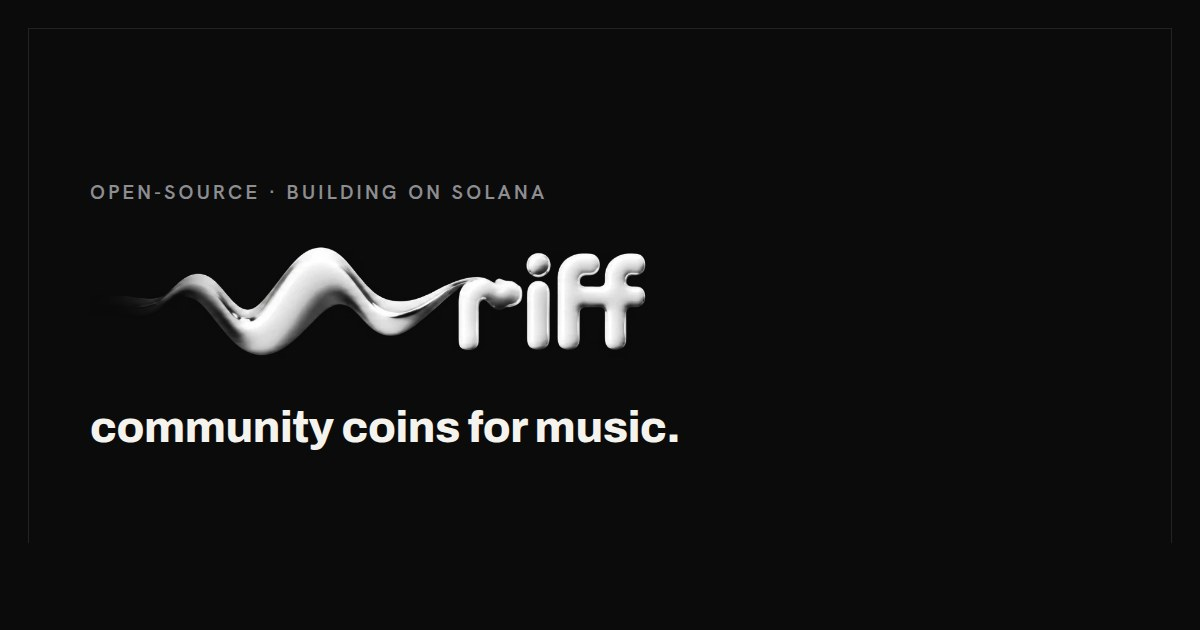
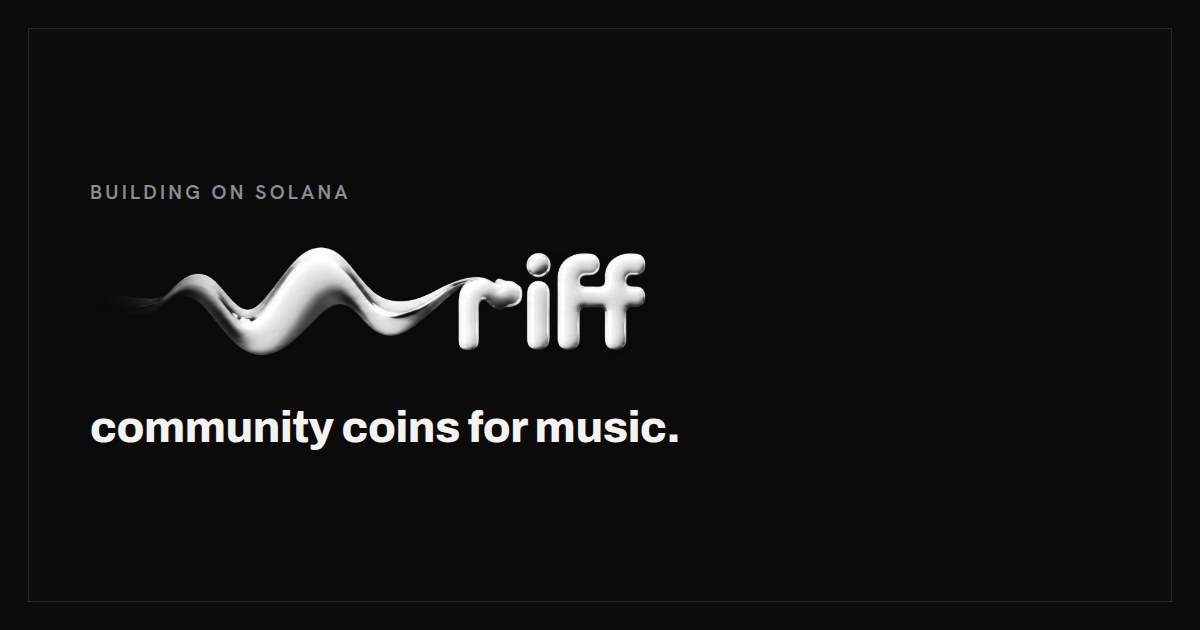
Remove open-source claims and fill in real links
Riff's code will not be open source, so the site no longer says it is:
the hero, meta tags, principles list, footer and social card drop the
open-source wording, and the "built in public" section with its repo
tree becomes a plain "follow the build" updates section. The MIT
LICENSE is replaced with an all-rights-reserved notice so the public
repo does not grant reuse of the site or brand assets.

Placeholder URLs now point to use-riff.github.io, github.com/use-riff
and x.com/useRiffPad; JSON-LD switches to an Organization record.

Claude-Session: https://claude.ai/code/session_01RsVUPfgxExVhs85XeAz9xS

Changed region(s): [[0.0617, 0.2714, 0.4625, 0.3317]]

diff --git a/index.html b/index.html
@@ -4,10 +4,10 @@
 <meta charset="utf-8">
 <script>document.documentElement.className='js';</script>
 <title>riff — community coins for music</title>
-<meta name="description" content="Riff is an open-source launch protocol exploring fairer community coins, artist fee sharing and music-charity fallback.">
+<meta name="description" content="Riff is a launch protocol exploring fairer community coins, artist fee sharing and music-charity fallback.">
 <meta name="viewport" content="width=device-width, initial-scale=1">
 <meta name="theme-color" content="#0b0b0c">
-<link rel="canonical" href="https://REPLACE-ME.github.io/">
+<link rel="canonical" href="https://use-riff.github.io/">
 
 <link rel="icon" href="assets/favicon.svg" type="image/svg+xml">
 <link rel="alternate icon" href="assets/favicon.svg">
@@ -20,28 +20,29 @@
 <!-- Open Graph -->
 <meta property="og:type" content="website">
 <meta property="og:title" content="riff — community coins for music">
-<meta property="og:description" content="Riff is an open-source launch protocol exploring fairer community coins, artist fee sharing and music-charity fallback.">
-<meta property="og:url" content="https://REPLACE-ME.github.io/">
-<meta property="og:image" content="https://REPLACE-ME.github.io/assets/social-card.jpg">
+<meta property="og:description" content="Riff is a launch protocol exploring fairer community coins, artist fee sharing and music-charity fallback.">
+<meta property="og:url" content="https://use-riff.github.io/">
+<meta property="og:image" content="https://use-riff.github.io/assets/social-card.jpg">
 <meta property="og:image:width" content="1200">
 <meta property="og:image:height" content="630">
 
 <!-- Twitter / X -->
 <meta name="twitter:card" content="summary_large_image">
 <meta name="twitter:title" content="riff — community coins for music">
-<meta name="twitter:description" content="Riff is an open-source launch protocol exploring fairer community coins, artist fee sharing and music-charity fallback.">
-<meta name="twitter:image" content="https://REPLACE-ME.github.io/assets/social-card.jpg">
+<meta name="twitter:description" content="Riff is a launch protocol exploring fairer community coins, artist fee sharing and music-charity fallback.">
+<meta name="twitter:image" content="https://use-riff.github.io/assets/social-card.jpg">
 
 <script type="application/ld+json">
 {
   "@context": "https://schema.org",
-  "@type": "SoftwareSourceCode",
+  "@type": "Organization",
   "name": "riff",
-  "description": "Riff is an open-source launch protocol exploring fairer community coins, artist fee sharing and music-charity fallback.",
-  "codeRepository": "https://github.com/REPLACE-ME",
-  "runtimePlatform": "Solana",
-  "license": "https://github.com/REPLACE-ME/blob/main/LICENSE",
-  "isAccessibleForFree": true
+  "url": "https://use-riff.github.io/",
+  "description": "Riff is a launch protocol exploring fairer community coins, artist fee sharing and music-charity fallback.",
+  "sameAs": [
+    "https://github.com/use-riff",
+    "https://x.com/useRiffPad"
+  ]
 }
 </script>
 </head>
@@ -57,13 +58,13 @@
     <ul class="nav-links">
       <li><a href="#roadmap">roadmap</a></li>
       <li>
-        <a href="https://github.com/REPLACE-ME" target="_blank" rel="noopener noreferrer" aria-label="GitHub">
+        <a href="https://github.com/use-riff" target="_blank" rel="noopener noreferrer" aria-label="GitHub">
           <svg class="nav-icon" viewBox="0 0 24 24" fill="currentColor" aria-hidden="true"><path d="M12 .5C5.73.5.5 5.73.5 12c0 5.1 3.29 9.4 7.86 10.94.57.1.78-.25.78-.55v-2.17c-3.2.7-3.87-1.35-3.87-1.35-.53-1.34-1.3-1.7-1.3-1.7-1.06-.72.08-.71.08-.71 1.17.08 1.78 1.2 1.78 1.2 1.04 1.78 2.73 1.27 3.4.97.1-.75.4-1.27.73-1.56-2.55-.29-5.23-1.28-5.23-5.69 0-1.26.45-2.29 1.19-3.09-.12-.29-.52-1.46.11-3.05 0 0 .97-.31 3.18 1.18a11 11 0 0 1 5.79 0c2.2-1.49 3.17-1.18 3.17-1.18.64 1.59.24 2.76.12 3.05.74.8 1.19 1.83 1.19 3.09 0 4.42-2.69 5.4-5.25 5.68.42.36.78 1.07.78 2.16v3.2c0 .31.21.66.79.55A10.52 10.52 0 0 0 23.5 12C23.5 5.73 18.27.5 12 .5z"/></svg>
           <span class="nav-label">github</span>
         </a>
       </li>
       <li>
-        <a href="https://x.com/REPLACE-ME" target="_blank" rel="noopener noreferrer" aria-label="X">
+        <a href="https://x.com/useRiffPad" target="_blank" rel="noopener noreferrer" aria-label="X">
           <svg class="nav-icon" viewBox="0 0 24 24" fill="currentColor" aria-hidden="true"><path d="M18.9 3H21l-6.6 7.53L22.2 21h-6.1l-4.78-6.24L5.8 21H3.7l7.06-8.06L2.3 3h6.24l4.32 5.71L18.9 3zm-1.07 16.17h1.13L7.24 4.74H6.03l11.8 14.43z"/></svg>
           <span class="nav-label">x</span>
         </a>
@@ -78,13 +79,13 @@
   <section class="hero" id="top">
     <div class="container">
       <div class="hero-copy">
-        <p class="eyebrow">open-source · in development</p>
+        <p class="eyebrow">in development</p>
         <h1>riff</h1>
         <p class="hero-statement">community coins for music.</p>
-        <p class="hero-lead">An open-source launch protocol exploring fairer launches, artist fee sharing and music-charity fallback.</p>
+        <p class="hero-lead">A launch protocol exploring fairer launches, artist fee sharing and music-charity fallback.</p>
         <div class="hero-actions">
           <a class="btn" href="#roadmap">view the roadmap</a>
-          <a class="text-link" href="https://github.com/REPLACE-ME" target="_blank" rel="noopener noreferrer">follow development on github</a>
+          <a class="text-link" href="https://x.com/useRiffPad" target="_blank" rel="noopener noreferrer">follow development on x</a>
         </div>
         <div class="hero-status-row">
           <span class="status is-live"><i class="dot" aria-hidden="true"></i>currently building on solana</span>
@@ -178,7 +179,7 @@
         <li><span class="idx">03</span><p>locked liquidity.</p></li>
         <li><span class="idx">04</span><p>artist consent.</p></li>
         <li><span class="idx">05</span><p>public fee routing.</p></li>
-        <li><span class="idx">06</span><p>open-source contracts.</p></li>
+        <li><span class="idx">06</span><p>public launch information.</p></li>
       </ul>
       <p class="principles-note">Riff is designed to reduce common creator-controlled rug mechanisms. It cannot eliminate market risk, coordinated selling or loss of value.</p>
     </div>
@@ -243,25 +244,18 @@
     </div>
   </section>
 
-  <!-- =========================== OPEN SOURCE =========================== -->
-  <section class="opensource reveal" id="open-source">
+  <!-- ============================= UPDATES ============================= -->
+  <section class="updates reveal" id="updates">
     <div class="container">
-      <div class="opensource-copy">
-        <h2>built in public.</h2>
-        <p>Riff will be open source. The protocol, interface and public documentation will be developed in the open for anyone to inspect and contribute to.</p>
-        <div class="opensource-links">
-          <a class="text-link" href="https://github.com/REPLACE-ME" target="_blank" rel="noopener noreferrer">view github</a>
+      <h2>follow the build.</h2>
+      <div class="updates-body">
+        <p>Roadmap progress and launch details will be shared as Riff develops.</p>
+        <div class="updates-links">
+          <a class="text-link" href="https://x.com/useRiffPad" target="_blank" rel="noopener noreferrer">follow riff on x</a>
           <a class="text-link" href="#roadmap">read the roadmap</a>
-          <a class="text-link" href="https://x.com/REPLACE-ME" target="_blank" rel="noopener noreferrer">follow riff on x</a>
+          <a class="text-link" href="https://github.com/use-riff" target="_blank" rel="noopener noreferrer">riff on github</a>
         </div>
       </div>
-      <pre class="tree" aria-hidden="true">riff/
-<span class="branch">├── </span><span class="file">index.html</span>
-<span class="branch">├── </span><span class="file">style.css</span>
-<span class="branch">├── </span><span class="file">script.js</span>
-<span class="branch">├── </span><span class="path">contracts/</span>  <span class="comment"># in development</span>
-<span class="branch">├── </span><span class="path">docs/</span>       <span class="comment"># protocol notes</span>
-<span class="branch">└── </span><span class="file">LICENSE</span>    <span class="comment"># MIT</span></pre>
     </div>
   </section>
 
@@ -279,16 +273,15 @@
     <div class="footer-row">
       <span class="footer-brand">riff</span>
       <div class="footer-meta">
-        <span>open source.</span>
         <span>building on solana.</span>
         <span>&copy; 2026 riff.</span>
       </div>
     </div>
     <div class="footer-links">
-      <a href="https://github.com/REPLACE-ME" target="_blank" rel="noopener noreferrer" aria-label="Riff on GitHub">
+      <a href="https://github.com/use-riff" target="_blank" rel="noopener noreferrer" aria-label="Riff on GitHub">
         <svg viewBox="0 0 24 24" fill="currentColor" aria-hidden="true"><path d="M12 .5C5.73.5.5 5.73.5 12c0 5.1 3.29 9.4 7.86 10.94.57.1.78-.25.78-.55v-2.17c-3.2.7-3.87-1.35-3.87-1.35-.53-1.34-1.3-1.7-1.3-1.7-1.06-.72.08-.71.08-.71 1.17.08 1.78 1.2 1.78 1.2 1.04 1.78 2.73 1.27 3.4.97.1-.75.4-1.27.73-1.56-2.55-.29-5.23-1.28-5.23-5.69 0-1.26.45-2.29 1.19-3.09-.12-.29-.52-1.46.11-3.05 0 0 .97-.31 3.18 1.18a11 11 0 0 1 5.79 0c2.2-1.49 3.17-1.18 3.17-1.18.64 1.59.24 2.76.12 3.05.74.8 1.19 1.83 1.19 3.09 0 4.42-2.69 5.4-5.25 5.68.42.36.78 1.07.78 2.16v3.2c0 .31.21.66.79.55A10.52 10.52 0 0 0 23.5 12C23.5 5.73 18.27.5 12 .5z"/></svg>
       </a>
-      <a href="https://x.com/REPLACE-ME" target="_blank" rel="noopener noreferrer" aria-label="Riff on X">
+      <a href="https://x.com/useRiffPad" target="_blank" rel="noopener noreferrer" aria-label="Riff on X">
         <svg viewBox="0 0 24 24" fill="currentColor" aria-hidden="true"><path d="M18.9 3H21l-6.6 7.53L22.2 21h-6.1l-4.78-6.24L5.8 21H3.7l7.06-8.06L2.3 3h6.24l4.32 5.71L18.9 3zm-1.07 16.17h1.13L7.24 4.74H6.03l11.8 14.43z"/></svg>
       </a>
     </div>

diff --git a/style.css b/style.css
@@ -603,64 +603,46 @@ section{position:relative;}
 }
 
 /* ==========================================================================
-   OPEN SOURCE
+   UPDATES
    ========================================================================== */
-.opensource{
+.updates{
   padding:var(--sp-10) 0;
   border-bottom:1px solid var(--c-graphite-2);
 }
-.opensource .container{
+.updates .container{
   display:grid;
-  grid-template-columns:minmax(0,1fr) minmax(0,1fr);
+  grid-template-columns:minmax(0,5fr) minmax(0,7fr);
   gap:var(--sp-9);
-  align-items:start;
+  align-items:end;
 }
-.opensource .container > *{ min-width:0; }
-.opensource h2{
+.updates h2{
   font-size:var(--fs-h2);
+  line-height:1.02;
   text-transform:lowercase;
   color:var(--c-silver-bright);
-  margin-bottom:var(--sp-5);
 }
-.opensource-copy p{
+.updates-body p{
   color:var(--c-muted);
   max-width:44ch;
   margin-bottom:var(--sp-6);
   font-size:var(--fs-lead);
 }
-.opensource-links{
+.updates-links{
   display:flex;
-  flex-direction:column;
-  gap:var(--sp-3);
-  align-items:flex-start;
+  flex-wrap:wrap;
+  gap:var(--sp-3) var(--sp-6);
+  padding-top:var(--sp-5);
+  border-top:1px solid var(--c-graphite-2);
 }
-.opensource-links a{
+.updates-links a{
   font-family:var(--font-mono);
   font-size:14px;
   text-transform:uppercase;
   letter-spacing:0.08em;
 }
 
-.tree{
-  display:block;
-  font-family:var(--font-mono);
-  font-size:13.5px;
-  line-height:2;
-  color:var(--c-muted);
-  border:1px solid var(--c-graphite-2);
-  padding:var(--sp-6);
-  background:var(--c-graphite-1);
-  overflow-x:auto;
-  max-width:100%;
-  margin:0;
-}
-.tree .branch{color:var(--c-graphite-3); user-select:none;}
-.tree .path{color:var(--c-silver);}
-.tree .file{color:var(--c-muted);}
-.tree .comment{color:var(--c-graphite-3);}
-
 @media (max-width:860px){
-  .opensource .container{grid-template-columns:1fr; gap:var(--sp-7);}
+  .updates .container{grid-template-columns:1fr; gap:var(--sp-6);}
 }
 
 /* ==========================================================================

diff --git a/script.js b/script.js
@@ -1,13 +1,3 @@
-/* ---------------------------------------------------------------------------
- * riff — replace before publishing.
- * These two values are not injected at runtime (the site must work with
- * JavaScript disabled), they only document where to find and replace the
- * placeholder links. Update these AND every literal occurrence of the same
- * strings in index.html (nav, hero, open-source section, footer).
- * ------------------------------------------------------------------------- */
-const GITHUB_URL = "https://github.com/REPLACE-ME";
-const X_URL = "https://x.com/REPLACE-ME";
-
 (function () {
   "use strict";
 

diff --git a/404.html b/404.html
@@ -61,7 +61,6 @@
     <div class="footer-row">
       <span class="footer-brand">riff</span>
       <div class="footer-meta">
-        <span>open source.</span>
         <span>building on solana.</span>
         <span>&copy; 2026 riff.</span>
       </div>

diff --git a/README.md b/README.md
@@ -1,13 +1,16 @@
 # riff — community coins for music
 
-This repository contains the static roadmap site for **riff**, an open-source
-launch protocol being developed on Solana. A coin creator selects a music
-artist to support; part of the platform fees is reserved for that artist, who
-can verify and claim it. If the artist declines or the claim window expires,
-the reserved fees go to an independent music charity instead.
+This repository contains the roadmap site for **riff**, a community-coin launch
+protocol being developed on Solana. A coin creator selects a music artist to
+support; part of the platform fees is reserved for that artist, who can verify
+and claim it. If the artist declines or the claim window expires, the reserved
+fees go to an independent music charity instead.
 
 Riff does not exist as a live product yet. This site documents the project's
-direction and roadmap while it's being built in public.
+direction and roadmap while it is in development.
+
+Live site: https://use-riff.github.io/
+Updates: https://x.com/useRiffPad
 
 ## Stack
 
@@ -31,49 +34,32 @@ response.
 ## File structure
 
 ```
-index.html         main page
+index.html          main page
 style.css           all styling
-script.js           progressive-enhancement behavior (see comments at top for
-                    the two link placeholders)
+script.js           progressive-enhancement behavior
 404.html            not-found page
 robots.txt          crawler rules + sitemap reference
 sitemap.xml         single-page sitemap
 assets/
-  riff-logo.webp    wave-into-wordmark lockup (nav, footer, social meta)
+  riff-logo.webp    wave-into-wordmark lockup (nav)
   riff-mark.webp    isolated glyph mark
-  riff-wave.webp    the mirrored echo-wave, cropped from the supplied artwork
-  brand/            lightly-compressed copies of the original supplied images
+  riff-wave.webp    the mirrored echo-wave from the brand artwork
+  brand/            compressed copies of the original brand images
   favicon.svg       simplified vector mark
-  social-card.jpg   Open Graph / Twitter card image
+  social-card.jpg   Open Graph / X card image
   fonts/            self-hosted Archivo + Hanken Grotesk variable fonts
   grain.svg         low-opacity print-texture overlay
 ```
 
-## Placeholders to replace before publishing
-
-These appear as literal strings — a project-wide find-and-replace handles
-all of them:
-
-| Placeholder | Where | Replace with |
-|---|---|---|
-| `https://github.com/REPLACE-ME` | `index.html`, `404.html`, `script.js` | your GitHub repository URL |
-| `https://x.com/REPLACE-ME` | `index.html`, `script.js` | your X/Twitter profile URL |
-| `https://REPLACE-ME.github.io/` | `index.html` (canonical, OG, Twitter), `robots.txt`, `sitemap.xml` | your GitHub Pages URL |
-
-`script.js` documents the two link placeholders at the very top of the file
-for convenience; the working links live in the HTML so the site remains
-fully functional with JavaScript disabled.
-
 ## Deploying to GitHub Pages
 
-This site is built to be served from the root of a branch with GitHub Pages:
+The site is served from the repository root by GitHub Pages:
 
-- `index.html` is already at the repository root.
+- `index.html` is at the repository root.
 - Every asset reference uses a relative path.
 - There is no server-side routing or environment configuration required.
 
-Push to the branch configured for Pages and the site will build as-is.
-
 ## License
 
-MIT — see [LICENSE](LICENSE).
+All rights reserved — see [LICENSE](LICENSE). The bundled fonts are
+distributed under the SIL Open Font License 1.1.
